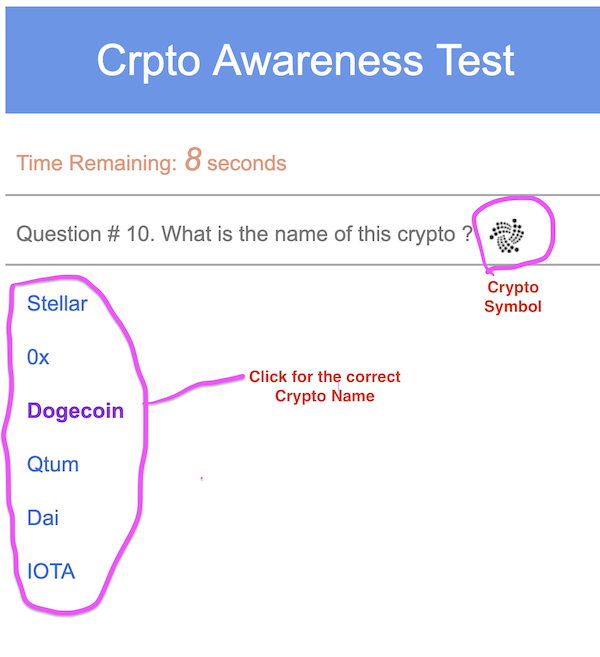
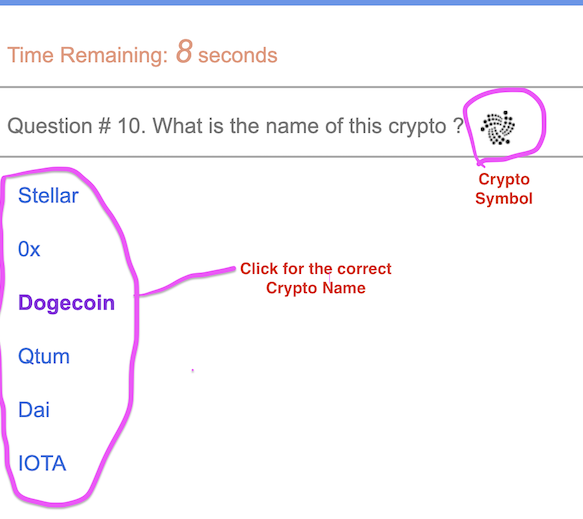
typo correction

Changed region(s): [[0.0, 0.0, 1.0, 0.9865]]

diff --git a/index.html b/index.html
@@ -15,7 +15,7 @@
    
   <div id="game">
 
-     <div id = "banner">Crpto Awareness Test</div>
+     <div id = "banner">Crypto Symbol Quiz</div>
      <div id="timing"> Time Remaining: <span id="second">10</span> seconds</div>
      <div id="question"> <span id="qNumber">0</span> What is the name of this crypto ?  <span id = "messageQ"></span> </div>
      <div id="areaDisplay"> 
